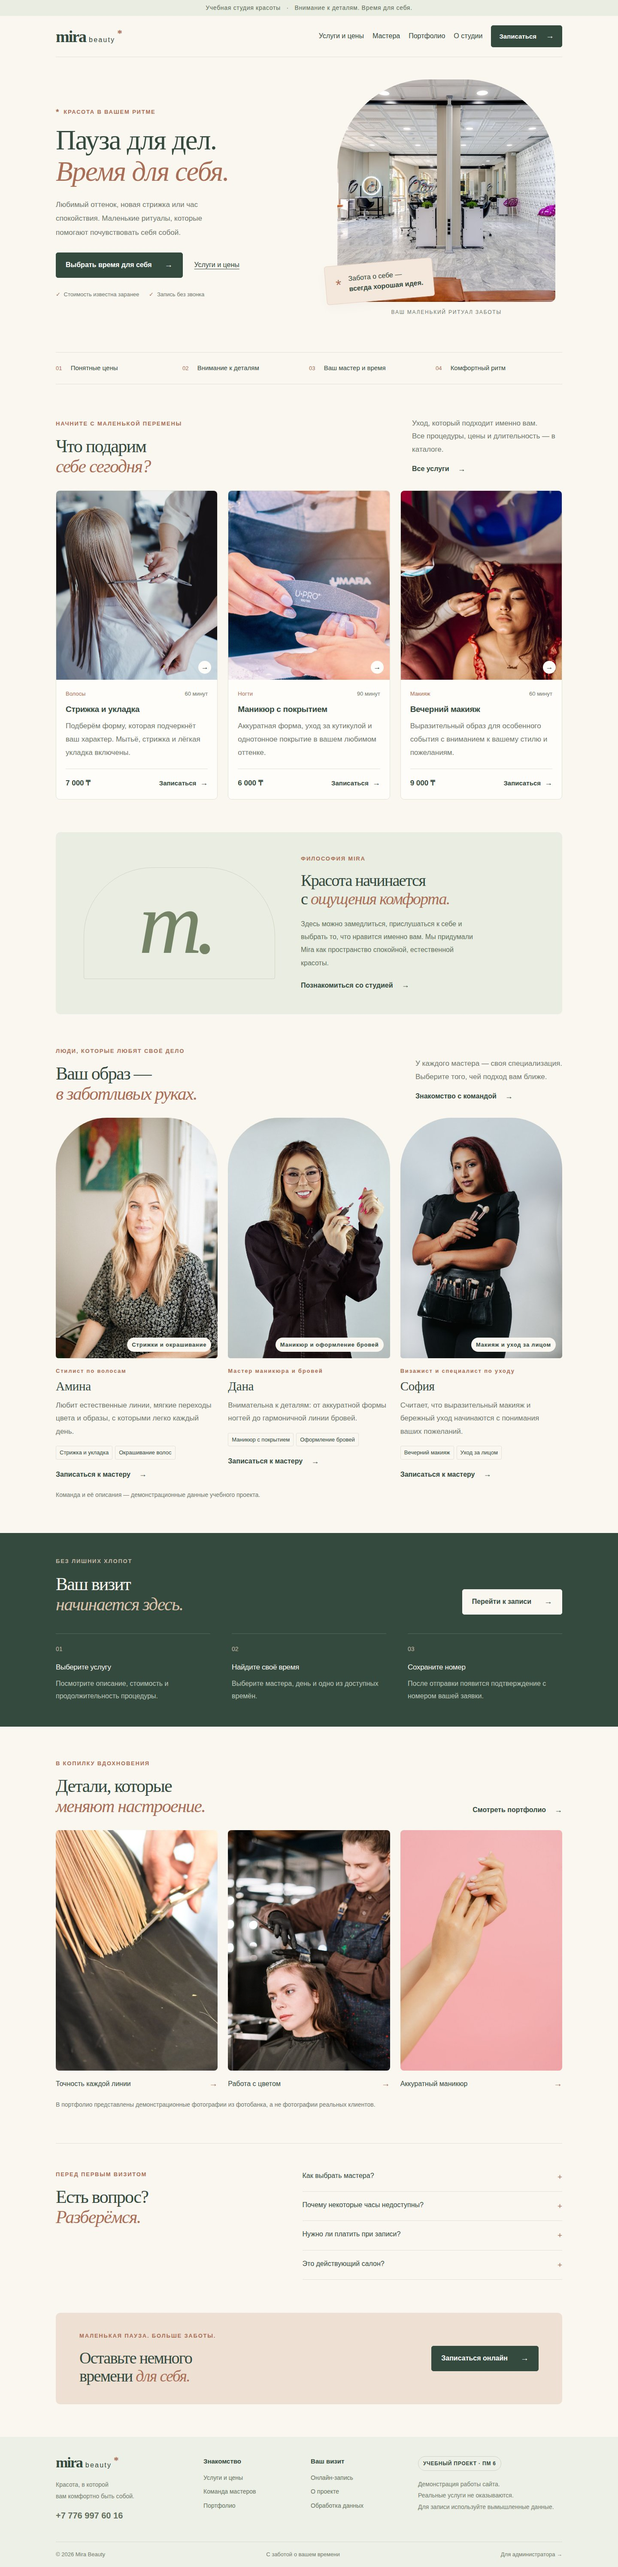
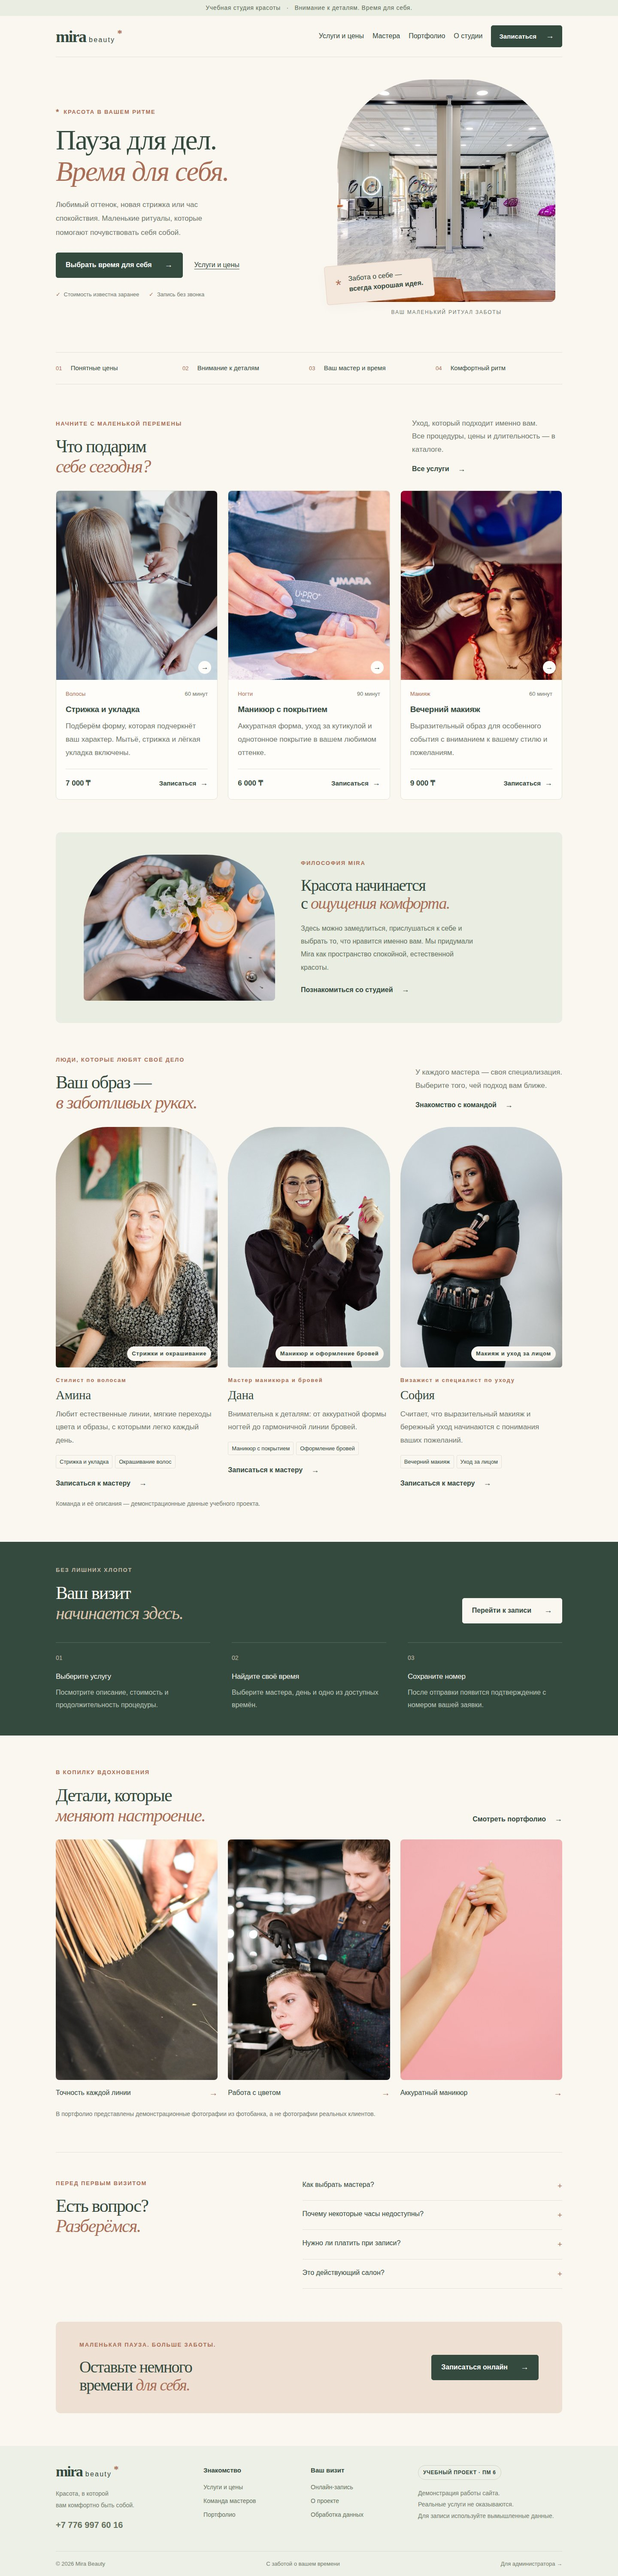
Save verified salon photographs and visual checks [skip ci]

diff --git a/docs/PHOTO_CHECK.md b/docs/PHOTO_CHECK.md
@@ -1,3 +1,3 @@
 # Проверка обновления фотографий и текста
 
-В GitHub Actions выполнены 23 автоматических теста Flask, проверка 16 разных локальных JPEG и Chromium на ширинах 360, 390, 768, 1000 и 1440 пикселей. Проверены загрузка всех фотографий, отсутствие горизонтального переполнения, размер основного шрифта от 17px, описание услуг от 16px, контактный телефон и мобильное меню. Ошибок JavaScript в проверенных сценариях не обнаружено. Публичное размещение Flask-сервера этим не подтверждается.
+В GitHub Actions выполнены 23 автоматических теста Flask, проверка 19 разных локальных JPEG и Chromium на ширинах 360, 390, 768, 1000 и 1440 пикселей. Проверены загрузка всех фотографий, отсутствие прежних заглушек m. и SVG-иллюстраций в фотографиях, отсутствие горизонтального переполнения, размер основного шрифта от 17px, описание услуг от 16px, контактный телефон и мобильное меню. Ошибок JavaScript в проверенных сценариях не обнаружено. Публичное размещение Flask-сервера этим не подтверждается.
